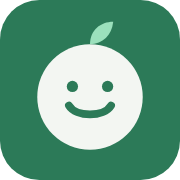
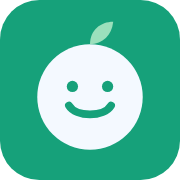
Kolory ikony i paska dopasowane do nowego wyglądu
Claude-Session: https://claude.ai/code/session_01BNgPCzqu6mK74jLXj17JZ5

diff --git a/index.html b/index.html
@@ -3,7 +3,7 @@
 <head>
 <meta charset="utf-8">
 <meta name="viewport" content="width=device-width,initial-scale=1,viewport-fit=cover">
-<meta name="theme-color" content="#2C7A58">
+<meta name="theme-color" content="#16A17A">
 <meta name="apple-mobile-web-app-capable" content="yes">
 <meta name="mobile-web-app-capable" content="yes">
 <meta name="apple-mobile-web-app-title" content="Brzuszek">
